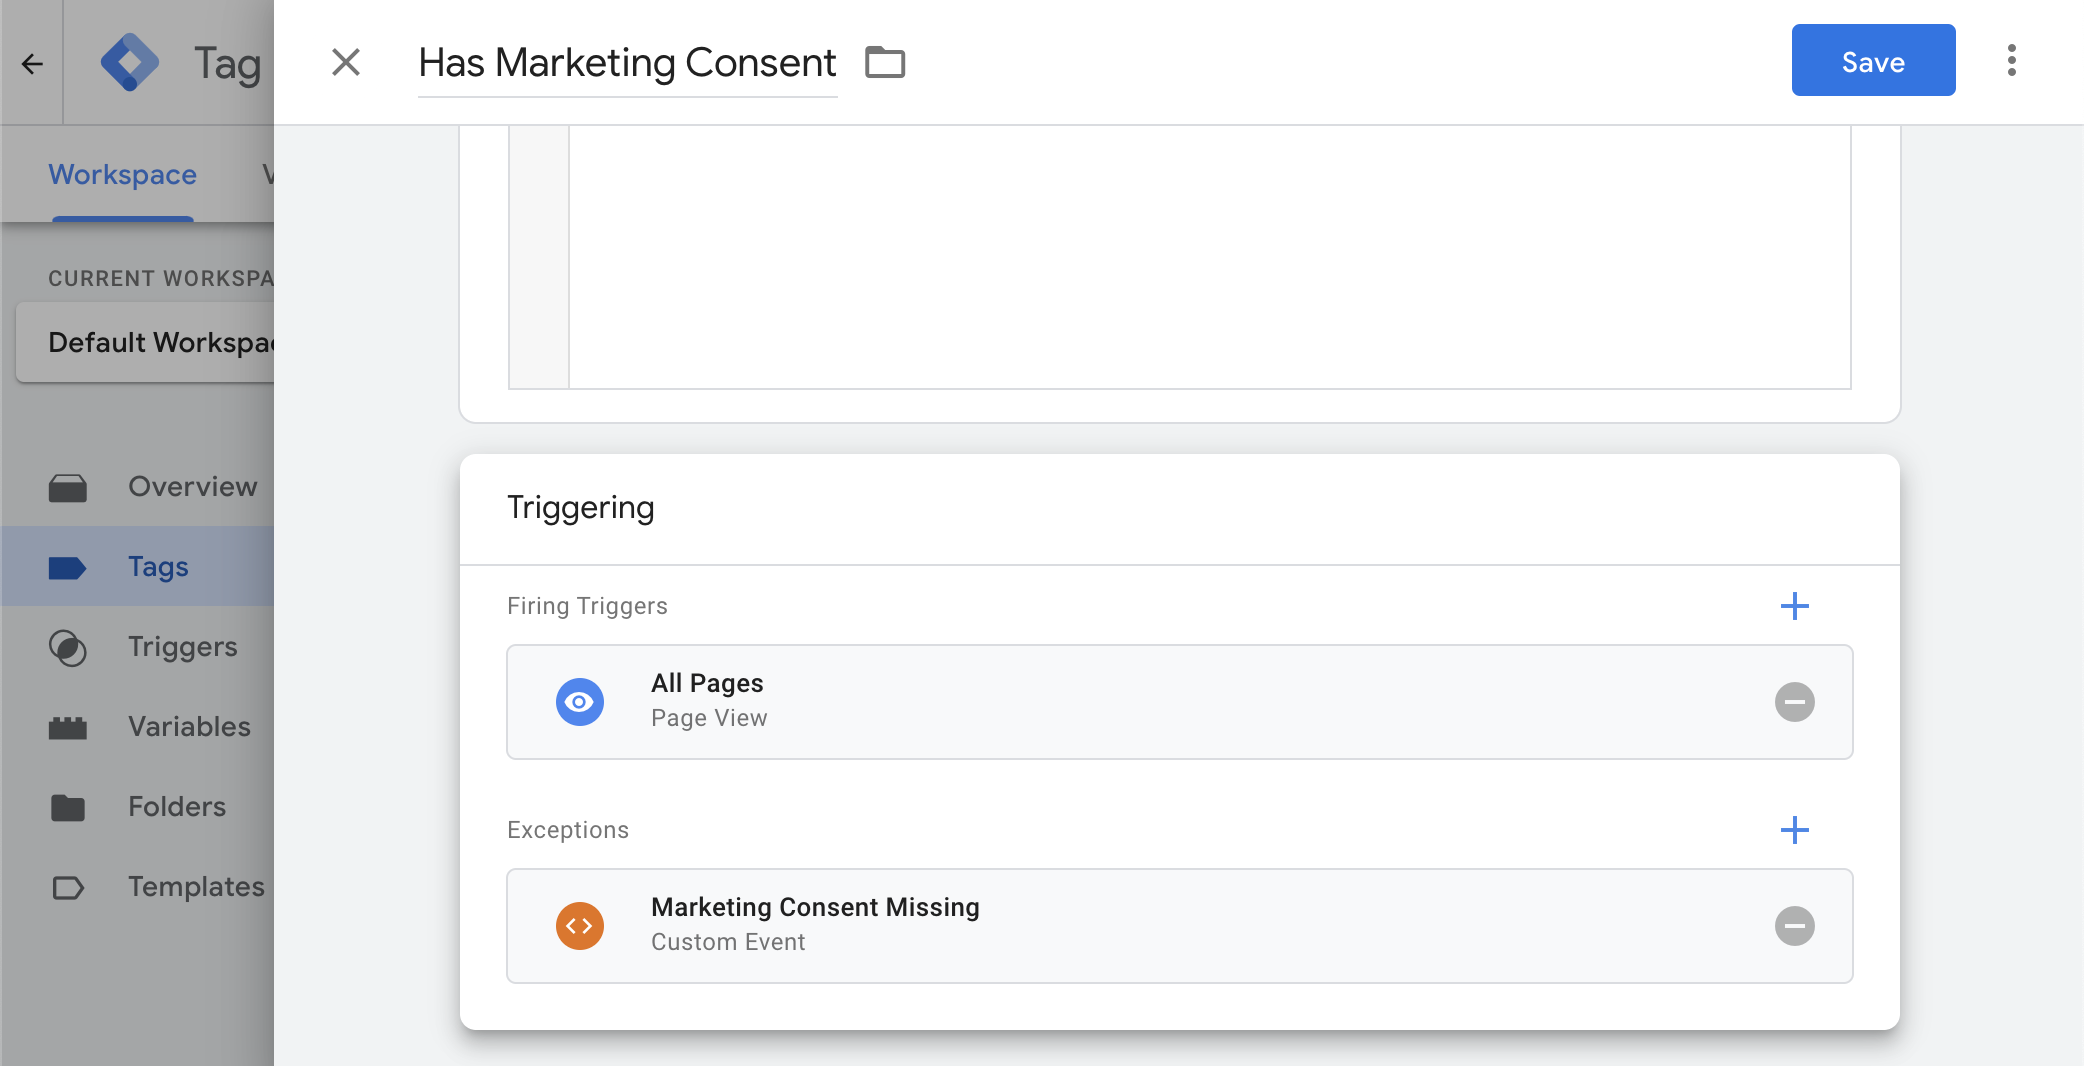
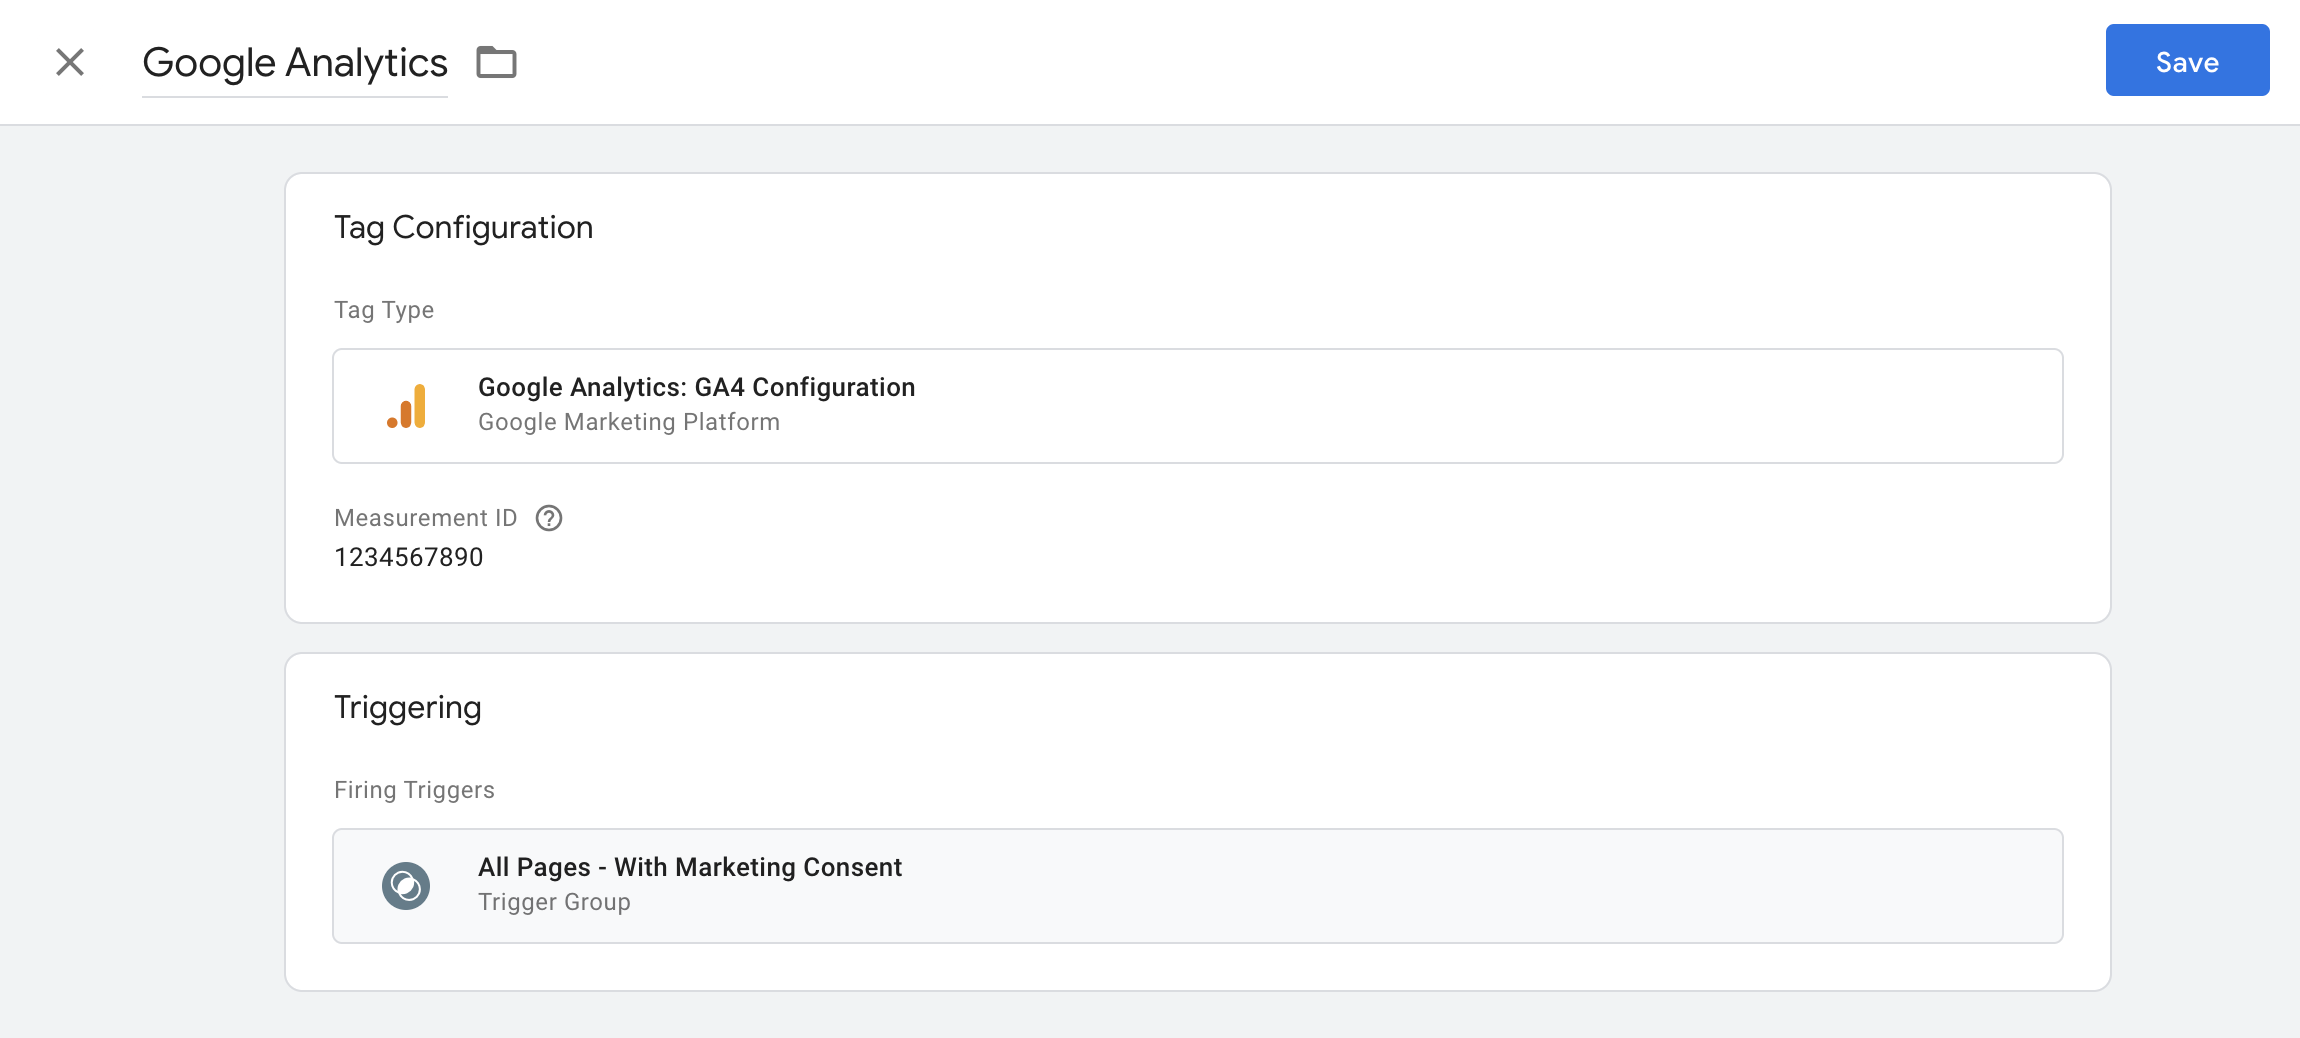
Update GTM docs with trigger groups
Fixes the set up with how GTM handles events and trigger exceptions.

Changed region(s): [[0.0, 0.0, 0.9981, 1.0], [0.8421, 0.6166, 0.8733, 0.6782], [0.8421, 0.7707, 0.8733, 0.8015]]

diff --git a/docs/consent/google-tag-manager.md b/docs/consent/google-tag-manager.md
@@ -19,24 +19,46 @@ To get started in GTM first navigate to Variables in the left hand sidebar and o
 
 Triggers in GTM can be used to block the execution of certain tags by adding them as exceptions. We recommend this method to check if consent is missing before firing a given tag.
 
+Due to the way GTM works it is required to create trigger groups to combine default triggers like "All pages" with triggers for changes to consent.
+
+### Consent Trigger
+
 You will need to create a trigger for each category of consent you need to check when firing tags. Navigate to the Triggers section on the left hand sidebar and then click "New".
 
-- For the name enter **"Marketing Consent Missing"**
+![Adding a Tag Manager trigger](../assets/gtm-trigger.png)
+
+- For the name enter **"Has Marketing Consent"**
    - replace **"Marketing"** with whichever category your trigger will be for
 - For the trigger type choose **"Custom Event"**
 - For the Event Name enter `altis-consent-changed`
 - Select **"Some custom events"** for when the trigger should fire and options to create conditions will appear
 - From the list of variables select your **"Cookie Consent Categories"** variable from earlier
-- Select **"does not contain"** as the operator
+- Select **"contains"** as the operator
 - Enter **"marketing"** as the text the variable should contain
    - again replace **"marketing"** with the category you are adding
 - Save the trigger
 
 **Note:** if you have 2 categories with similar text e.g. "statistics" and "statistics-anonymous" you can add a comma after the name to get an exact match, for example "statistics,"
 
-![Adding a Tag Manager trigger](../assets/gtm-trigger.png)
-
 Repeat the above steps for each consent category you need.
+
+### Combined Trigger
+
+Next you will need to create a trigger group combining the consent trigger and your desired primary trigger, most of the time this is the "All Pages" trigger.
+
+![Adding a Tag Manager trigger group](../assets/gtm-trigger-group.png)
+
+Again, navigate to the Triggers section on the left hand sidebar and then click "New".
+
+- For the name enter **"All Pages - With Marketing Consent"**
+   - replace **"All Pages"** with your primary trigger name
+   - replace **"Marketing"** with whichever consent category trigger you are combining this with
+- For the trigger type choose **"Trigger Group"**
+- Under **"Triggers"** add a new trigger, select **"All Pages"**, or whichever primary trigger you wish
+- Add another trigger, this time select the **"Has Marketing Consent"** trigger you created in the previous section
+- Save the trigger
+
+You will need to do this for each consent category & primary trigger event you need.
 
 Once you are done you can start using these triggers to ensure only the tags that your website visitors have consented to are loaded by clicking "Add Exception" and selecting the trigger(s) that check the required consent categories.
 
